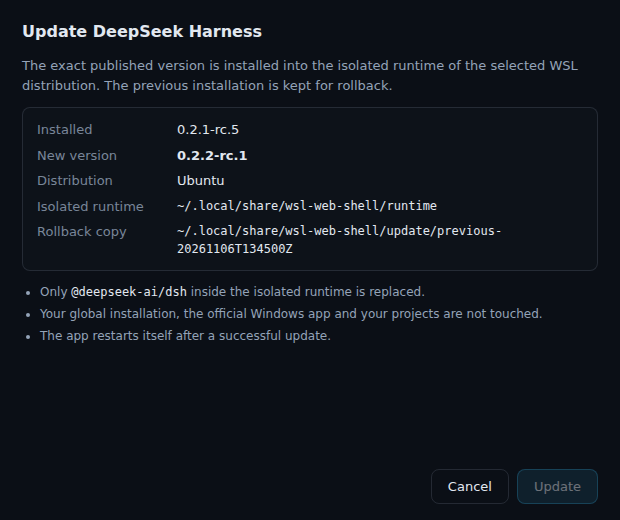
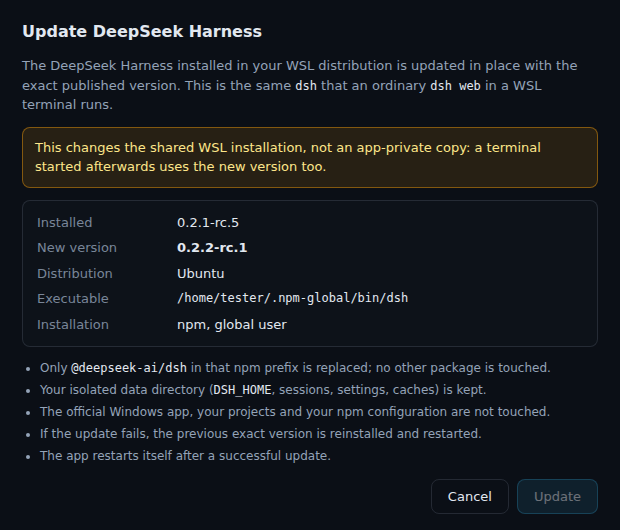
docs: refresh update confirmation and terminal screenshots for the shared-DSH model
Documentation media only (issue #21); the confirmation and terminal pages
themselves are unchanged.

Both images were captured from the real pages in `src/update/` by the existing
repository harness (`npm run screenshots` -> `scripts/screenshot-ui.cjs`) with its
fixture data, so no real update runs and no WSL or npm state is touched. Fixture
values: distribution `Ubuntu`, executable `/home/tester/.npm-global/bin/dsh`,
installation `npm, global user`, versions `0.2.1-rc.5 -> 0.2.2-rc.1`.

- `update-confirm.png` now shows what the current UI shows: the shared-installation
  warning ("not an app-private copy"), the executable row and the npm install scope
  instead of the retired "Isolated runtime" / "Rollback copy" rows. The harness sizes
  the window to the content so the image has no scrollbar and no clipped bullets
  (620x530).
- `update-terminal.png` shows the successful end state of the shared-install updater -
  the `update/shared-backup-<tx>` snapshot line, the "verifying the installation"
  lines, the login-shell proof and "is serving the WebUI" - instead of the pre-#17
  staging text (720x520).

Harness change (dev tooling, `--write-images` path only, never `chrome:smoke`): the
checks deliberately leave the terminal in the rolled-back state, so the screenshot
step now requests the successful end state and captures both update windows before
the composed footer images (an occluded window can otherwise be captured from a
stale frame).
[…]

diff --git a/docs/update.md b/docs/update.md
@@ -21,6 +21,17 @@ footer pill (only while an update exists)
    -> app relaunches the packaged EXE (or says it cannot)
 ```
 
+## What the user sees
+
+Both screenshots are rendered by the real confirmation and terminal pages
+(`src/update/`) through the repository harness `scripts/screenshot-ui.cjs`
+(`npm run screenshots`), which drives them with fixture data and never runs a real
+update. Paths, versions and the distribution name are test values.
+
+| Confirmation | Terminal |
+|---|---|
+| ![Update confirmation: executable, npm scope, shared-installation warning](media/update-confirm.png) | ![Update terminal: snapshot, install, login-shell verification](media/update-terminal.png) |
+
 ## What "version" means here
 
 Two independent things, deliberately kept apart:
